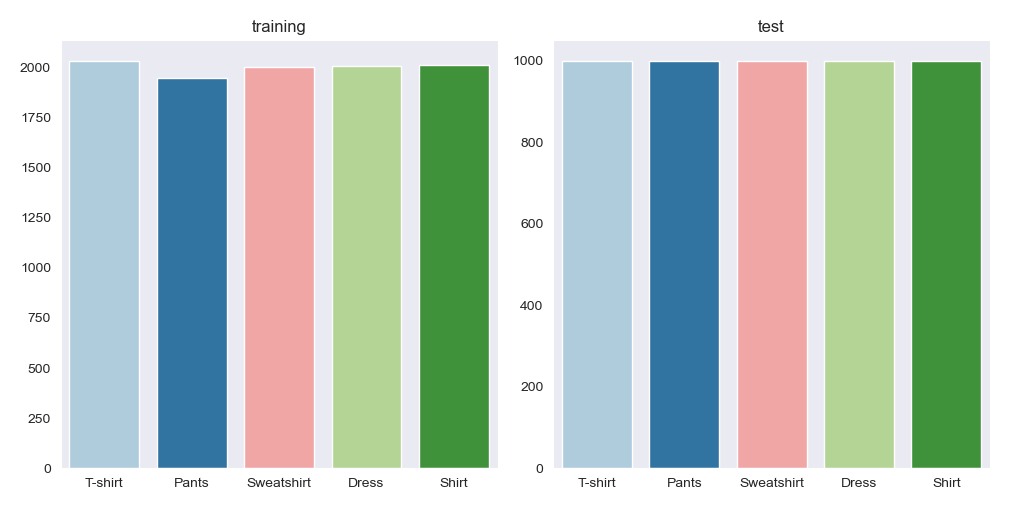
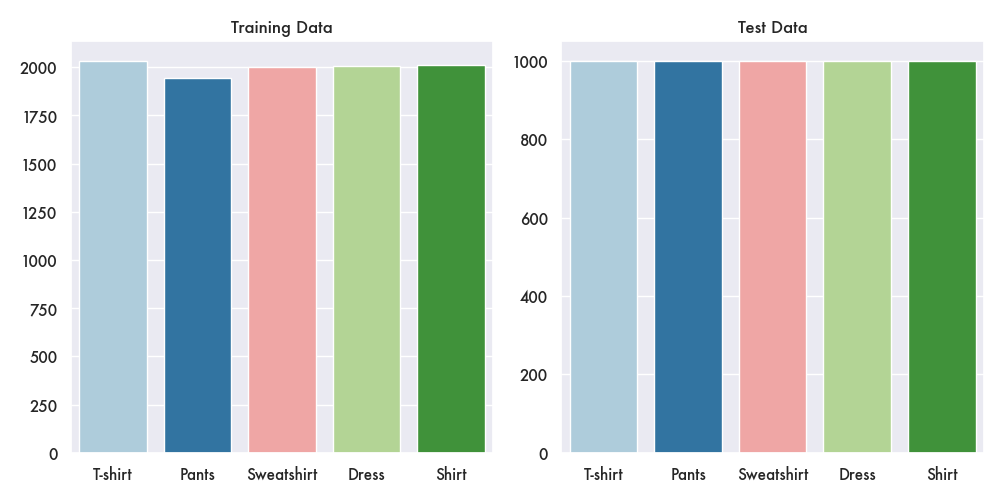
large commit

diff --git a/reports/2_preprocessing.tex b/reports/2_preprocessing.tex
@@ -1,0 +1,46 @@
+\section{Data and Preprocessing}
+\subsection{Data-set}
+The Fashion-MNIST is a data-set of Zalando's article images—consisting of a training set of 60,000 samples and 10,000 test samples. The data-set used here is a small portion of the original data-set, 10,000 training and 5,000 test samples. Each sample is a 28x28 pixels gray-scale image with a label indicating the type of clothing item associated with each. 
+\newline
+
+\begin{figure}[ht]
+\centering
+\includegraphics[scale=0.45]reports/figures_for_report/samples_from_classes.png}
+\captionsetup{justification=centering,margin=2cm}
+\caption{One sample from each class (reconstructing images from pixels)}
+\end{figure}
+\subsection{Naming Conventions}
+The exploration of samples within each class gave rise to more appropriate names. Class 0 became T-shirt etc. Below is our naming conventions, which we will use throughout the report for better readability.  \\
+\begin{table}[!ht]
+  \footnotesize
+  \centering
+\begin{tabular}{ c c c c c }
+ \toprule
+ \textbf{0} & \textbf{1} & \textbf{2} & \textbf{3} & \textbf{4} \\ 
+ \midrule 
+ T-shirt & Pants & Sweatshirt & Dress & Shirt \\ 
+ \bottomrule
+\end{tabular} \\[0.2cm]
+\captionsetup{justification=centering,margin=2cm}
+\caption{Mapping from class-labels to clothing type}
+\label{features}
+\end{table}
+
+
+\subsection{Data Cleaning}
+The data-set provided was already in a cleaned state, which was verified by checking for missing values, and checking that the pixel values were no greater than 255 and no smaller than 0. 
+
+\subsection{Preprocessing}
+The pixels were in the range $[0, 255]$. This range was normalized to $[0, 1]$ by dividing each pixel by 255. This was done primarily to improve training time. % not sure if we need this tbh but it was recommended online see below
+
+% 1 of many sources for this ^ https://machinelearningmastery.com/how-to-manually-scale-image-pixel-data-for-deep-learning/ %
+\subsection{Class Distribution}
+Whether or not a machine learning model can learn to predict classes well depends to a high degree on how those classes are distributed within our training and training data-set. Both our data-sets are extremely balanced, with the test being fully balanced ($1000$ of each class). This is illustrated on the plots below
+
+\begin{figure}[ht]
+\centering
+\includegraphics[scale=0.45]{figures/class_distribution.png}
+\captionsetup{justification=centering,margin=2cm}
+\caption{Distribution of clothing items in our training and test data-set}
+\end{figure}
+

diff --git a/reports/packages.tex b/reports/packages.tex
@@ -1,0 +1,62 @@
+\usepackage{graphicx} %images
+\usepackage{float} %floats
+\usepackage[
+backend=biber,
+style=numeric,
+sorting=none,
+url=false,
+maxbibnames=4,
+minbibnames=3
+]{biblatex}
+\DefineBibliographyStrings{english}{%
+  bibliography = {References},        %call bib 'References" instead of Bibliography
+}
+\usepackage{amsmath} %maths
+\usepackage{pdfpages} %include pdfs
+\usepackage{gensymb} %make math symbols
+\usepackage{comment} %enables commenting out a block of text
+\usepackage{caption}
+\usepackage{tabularx} %expanded tables
+\usepackage{xcolor}
+\usepackage{listings}
+\usepackage{booktabs}%centered tables
+\usepackage{subcaption} %side by side images
+\usepackage{url} %copy paste urls
+\usepackage[version=3]{mhchem} %does chem
+\usepackage{array}
+\usepackage{indentfirst} %indentsfirst
+\usepackage{setspace}
+\usepackage{csquotes} %quotes
+\usepackage{nicefrac} %pretty fractions
+\usepackage{subfiles} %multi-file doc
+\usepackage{multirow} %stuff for tables
+\usepackage{wrapfig} %text around figures
+\usepackage{changepage} %locally adjust page size
+\usepackage{stackengine} %give figures 0 width
+\usepackage{dcolumn} %order columns by order of magnitude
+\usepackage[numbered,framed]{matlab-prettifier}
+\usepackage[super]{nth} %use /nth{number} to get nicely looking ordinals
+\usepackage{algorithmicx}% for pseudocode
+\usepackage{xparse}
+
+\NewDocumentCommand{\class}{v}{%
+\texttt{\textcolor{blue}{#1}}%
+}
+
+\NewDocumentCommand{\code}{v}{%
+\texttt{\textcolor{black}{#1}}%
+}
+
+\lstset{language=Python,keywordstyle={\bfseries \color{blue}}}
+
+\lstset{
+  style              = Matlab-editor,
+  basicstyle         = \mlttfamily,
+  escapechar         = ",
+  mlshowsectionrules = true,
+}
+\newcolumntype{d}[1]{D{.}{.}{#1}} %creates new column for tables called d that orders numbers by magnitude. Look up documentation for more info
+\setlength{\parindent}{1cm} %sets indents to 0
+\usepackage{parskip} %add space between paragraphs
+\setlength{\parskip}{3pt} %make paragraph space a certain size
+\linespread{1.25} %change line spacing

diff --git a/reports/3_eda.tex b/reports/3_eda.tex
@@ -1,0 +1,17 @@
+\section{Exploratory Data Analysis}
+
+One simple yet useful way to explore a data-set is to visualize the feature distribution for each class. In our situation this is simply not possible and not very insightful as we have too many features. To be precise 728 = $28\times28$ features/pixels. This doesn't mean the data-set can't be visualized, which we will discuss in the next section. 
+
+
+\subsection{Principal Component Analysis}
+As mentioned before due to our large data-set it is hard to visualize feature distributions, this is where principal component analysis or PCA comes to the rescue. Principal Component Analysis (PCA) is a dimensionality reduction technique used to reduce the number of features in a dataset, while still preserving the most important information. It does this by transforming variables into a new set of variables, called principal components, which are uncorrelated from each other and explain the maximum amount of variance in the data. Below is plotted PCA1 vs PCA2 which to put it simply, represent the two directions of most variance in the data \\
+
+\begin{figure}[ht]
+\centering
+\includegraphics[scale=0.5]{reports/figures_for_report/pca_plot.png}
+\captionsetup{justification=centering,margin=2cm}
+\caption{Scatter-Plot of the two first principal components of training data}
+\label{feature_distribution_classes}
+\end{figure} \\
+
+# Todo discuss what the pca plot means 

diff --git a/src/dataset_exploration/plots/plot_class_distributions.py b/src/dataset_exploration/plots/plot_class_distributions.py
@@ -13,13 +13,15 @@ def plot_class_distribution():
     test_count = np.bincount(y_test)
     fig, ax = plt.subplots(ncols=2, figsize=(10, 5), tight_layout=True)
     seaborn.set_style("dark")
+    seaborn.set(font="Futura")
+
     seaborn.barplot(y=train_count, x=x,
                     palette={"T-shirt": t_shirt_color, "Pants": pants_color,
                              "Sweatshirt": sweatshirt_color, "Dress": dress_color,
                              "Shirt": shirt_color},
                     hue_order=["T-shirt", "Pants", "Sweatshirt", "Dress", "Shirt"],
                     ax=ax[0])
-    ax[0].set_title("training")
+    ax[0].set_title("Training Data")
 
     seaborn.barplot(y=test_count, x=x,
                     palette={"T-shirt": t_shirt_color, "Pants": pants_color,
@@ -28,10 +30,11 @@ def plot_class_distribution():
                     hue_order=["T-shirt", "Pants", "Sweatshirt", "Dress", "Shirt"],
                     ax=ax[1])
 
-    ax[1].set_title("test")
+    ax[1].set_title("Test Data")
     fig_name = "class_distribution"
     plt.savefig(f"reports/figures_for_report/{fig_name}", bbox_inches='tight', pad_inches=0.2)
 
 
 if __name__ == "__main__":
     plot_class_distribution()
+    plt.show()

diff --git a/src/dataset_exploration/plots/plot_pca.py b/src/dataset_exploration/plots/plot_pca.py
@@ -1,3 +1,4 @@
+import matplotlib
 import matplotlib.pyplot as plt
 import pandas as pd
 import seaborn
@@ -16,13 +17,17 @@ def plot_pc1_pca2(fig_name="pca_plot"):
     pca2 = X_pca[:, 1]
     fig, ax = plt.subplots(figsize=(10, 6), tight_layout=True)
     seaborn.set_style("darkgrid")
+    seaborn.set(font="Futura")
     y_train = _format_y_train(y_train)
     seaborn.scatterplot(x=pca1, y=pca2,
-                        ax=ax, alpha=1, hue=y_train,
+                        ax=ax, alpha=0.9, hue=y_train,
                         palette={"T-shirt": t_shirt_color, "Pants": pants_color,
                                  "Sweatshirt": sweatshirt_color, "Dress": dress_color,
                                  "Shirt": shirt_color},
-                        hue_order=["T-shirt", "Pants", "Sweatshirt", "Dress", "Shirt"])
+                        hue_order=["T-shirt", "Pants", "Sweatshirt", "Dress", "Shirt"],
+                        legend=True)
+
+    plt.legend(loc="upper right", fancybox=False)
 
     plt.xlabel('PCA 1')
     plt.ylabel('PCA 2')

diff --git a/reports/0_title.tex b/reports/0_title.tex
@@ -1,0 +1,33 @@
+\title{BP2}
+\begin{titlepage}
+\centering
+\newcommand{\HLine}{\rule{\linewidth}{0.5mm}}
+
+\begin{figure}[h]
+\centering
+\includegraphics[width=12cm]{reports/figures_for_report/ITU_logo.png}
+\end{figure}
+\hfill \break
+\hfill \break
+\textsc{\Large}\\
+\HLine \\[0.5cm]
+\huge Zalando Clothing Classificaton \\
+\small{\today}\\
+\vspace*{.5cm}
+\textsc{\large Authors:
+\\Kristian Graven Hansen (krgh@itu.dk)
+\\Lukas Sarka (lsar@itu.dk)
+\\Mikkel Geisler (mgei@itu.dk)}\\[0.5cm]
+\HLine
+
+\begin{minipage}{0.45\textwidth}
+\begin{flushleft} \large
+\end{flushleft}
+\end{minipage}
+\begin{minipage}{0.5\textwidth}
+\begin{flushright} \large
+\end{flushright}
+\end{minipage}
+\vfill
+\end{titlepage}
+\pagebreak

diff --git a/src/dataset_exploration/plots/plot_samples.py b/src/dataset_exploration/plots/plot_samples.py
@@ -18,7 +18,7 @@ def sample_from_each_class():
     data = FashionMnistData()
     X_train, y_train, X_test, y_test = data.get()
     samples = [extract_sample_in_class(X_train, y_train, i) for i in range(5)]
-    title = lambda i: f"class {i} "
+    title = lambda i: f"{i}"
     fig = plt.figure(figsize=(15, 6))
     plt.subplots_adjust(top=1, bottom=0, right=1, left=0,
                         hspace=0, wspace=0.01)

diff --git a/reports/main.tex b/reports/main.tex
@@ -1,0 +1,18 @@
+\documentclass[a4paper, 11pt]{article}
+\include{packages}
+\usepackage{geometry}
+ \geometry{
+ a4paper,
+ left=20mm,
+ right=20mm,
+ top=20mm,
+ bottom=20mm
+ }
+
+\begin{document}
+\input{0_title}
+\input{1_intro}
+\input{2_preprocessing}
+\input{3_eda}
+
+\end{document}

diff --git a/colors.py b/colors.py
@@ -1,5 +1,5 @@
 import seaborn
-# colors to use for each class througout the report
+# colors to use for each class throughout the report
 pal = seaborn.color_palette("Paired")
 class_0 = t_shirt_color = pal[0]
 class_1 = pants_color = pal[1]

diff --git a/reports/1_intro.tex b/reports/1_intro.tex
@@ -1,0 +1,7 @@
+\section{Introduction}
+We are doing this cuz of that...
+We are doing this cuz of that...
+We are doing this cuz of that...
+We are doing this cuz of that...
+We are doing this cuz of that...
+We are doing this cuz of that...
